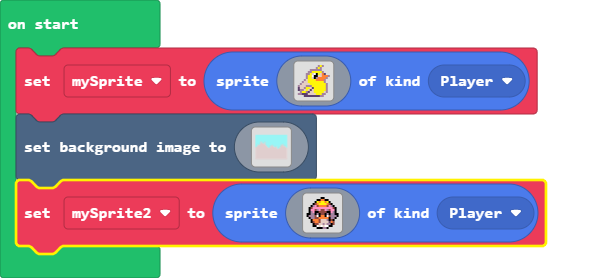
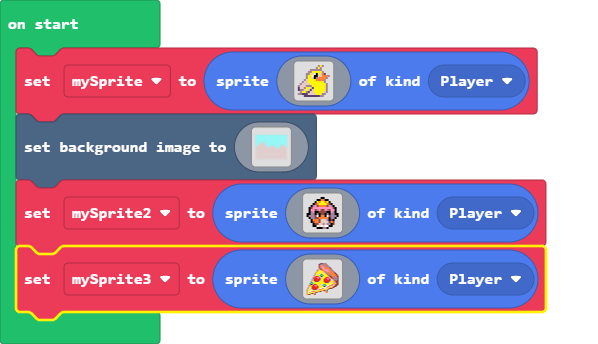
Update pxt.json, main.blocks, main.ts

diff --git a/main.ts b/main.ts
@@ -156,3 +156,37 @@ let mySprite2 = sprites.create(img`
     . . . f f 1 d 1 d 1 1 f f . . . 
     . . . . . f f f b b f . . . . . 
     `, SpriteKind.Player)
+let mySprite3 = sprites.create(img`
+    .............beebbbb............
+    ............eebbbb4bb...........
+    ............eb344bb4bb..........
+    ............e44334bb4bb.........
+    ............eb433344b4be........
+    ............4eb43344444be.......
+    ...........bd4eb43333344bb......
+    ..........b455d4443333444bb.....
+    ..........4d5555d444333444bb....
+    .........4555555dd4b4443444be...
+    ........bd5555d555d4bb444444ee..
+    ........b55ddd665555bb4b44444ee.
+    .......bd5555677655554ebb44444eb
+    .......43222558855555d4eeb44b4ee
+    ......b422332ddd555222d4eebbb4be
+    ......be22232ed55522332db4ebbbbe
+    .....bde22222e555e22232edd4bbbbe
+    .....b52e222e3555e22222eddd4ebee
+    ....bd552eee355552e222e355544eee
+    ....665dd5555555552eee355dd4deee
+    ...6776555555555555555551554d4ee
+    ...4885222555dddd6655551544d4eee
+    ..b45522332555dd677611d444ddeee.
+    ..4d5222232e55555881d44ddd4eee..
+    .bdd5e22222e555115114d54d4ee....
+    .b55d2e222e351144d1d55eeee......
+    bd5ddd2eee3d444555dd4e..........
+    b555115dddd55d544eede...........
+    4511d444d5544ee...4de...........
+    41d4555d4ee........44...........
+    41554eede.......................
+    44ee...4e.......................
+    `, SpriteKind.Player)
